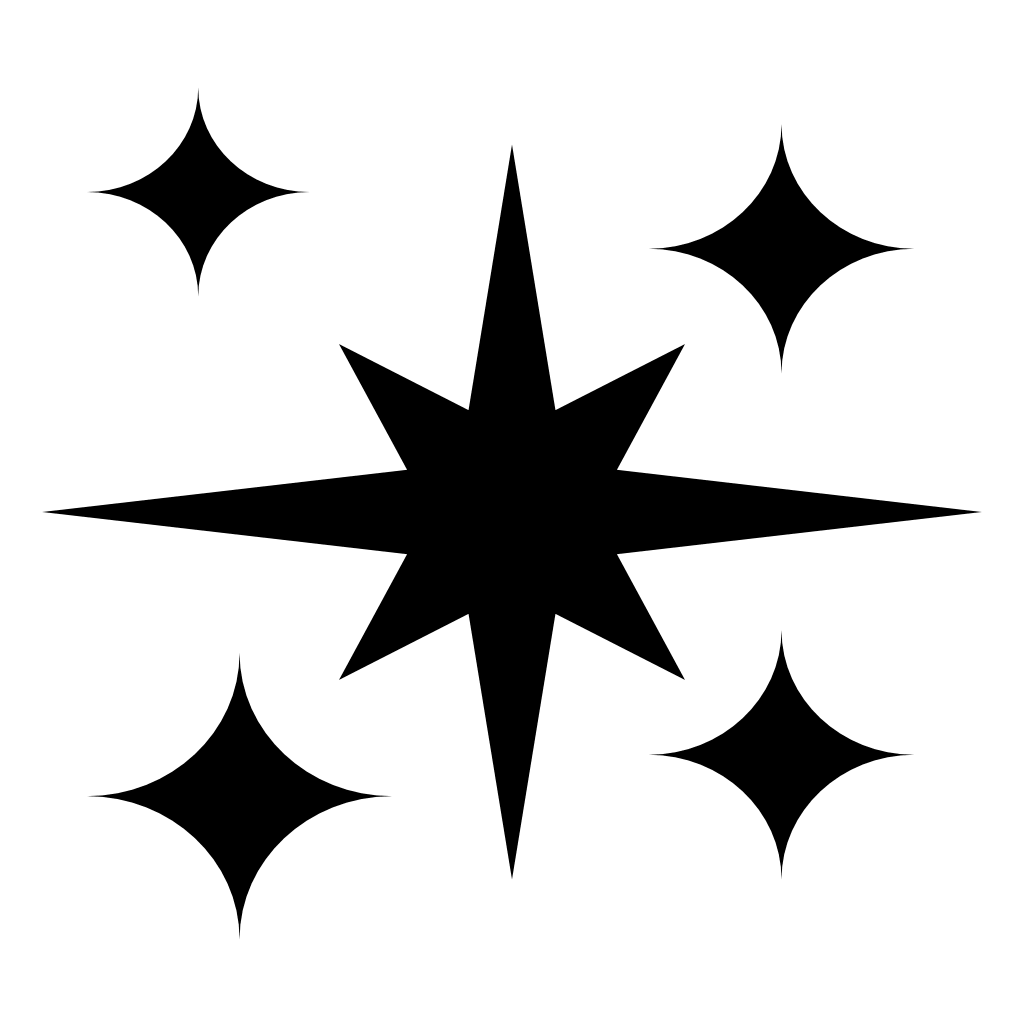
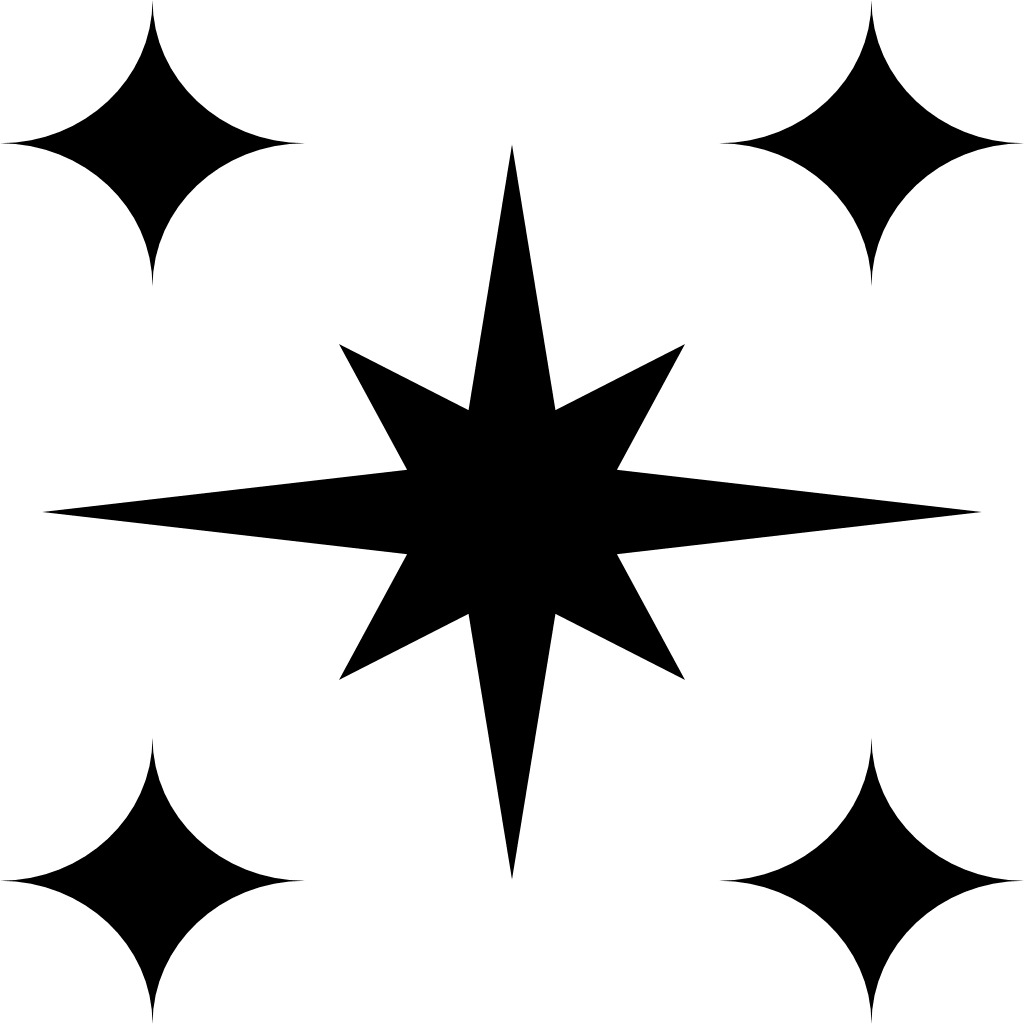
Update v0.3.9 release assets

diff --git a/README.md b/README.md
@@ -1,5 +1,5 @@
 <p align="center">
-  <img src="https://raw.githubusercontent.com/Neophen/star_view/main/assets/logo.png" alt="StarView logo" width="128" />
+  <img src="https://raw.githubusercontent.com/Neophen/star_view/main/assets/logo.svg" alt="StarView logo" width="128" />
 </p>
 
 # StarView - Unofficial helpers for Datastar and Phoenix

diff --git a/CHANGELOG.md b/CHANGELOG.md
@@ -12,6 +12,7 @@
 ### Changed
 
 - Updated README and guide installation examples for v0.3.9.
+- Switched the README and generated docs logo reference to the SVG asset.
 
 ## v0.3.8
 